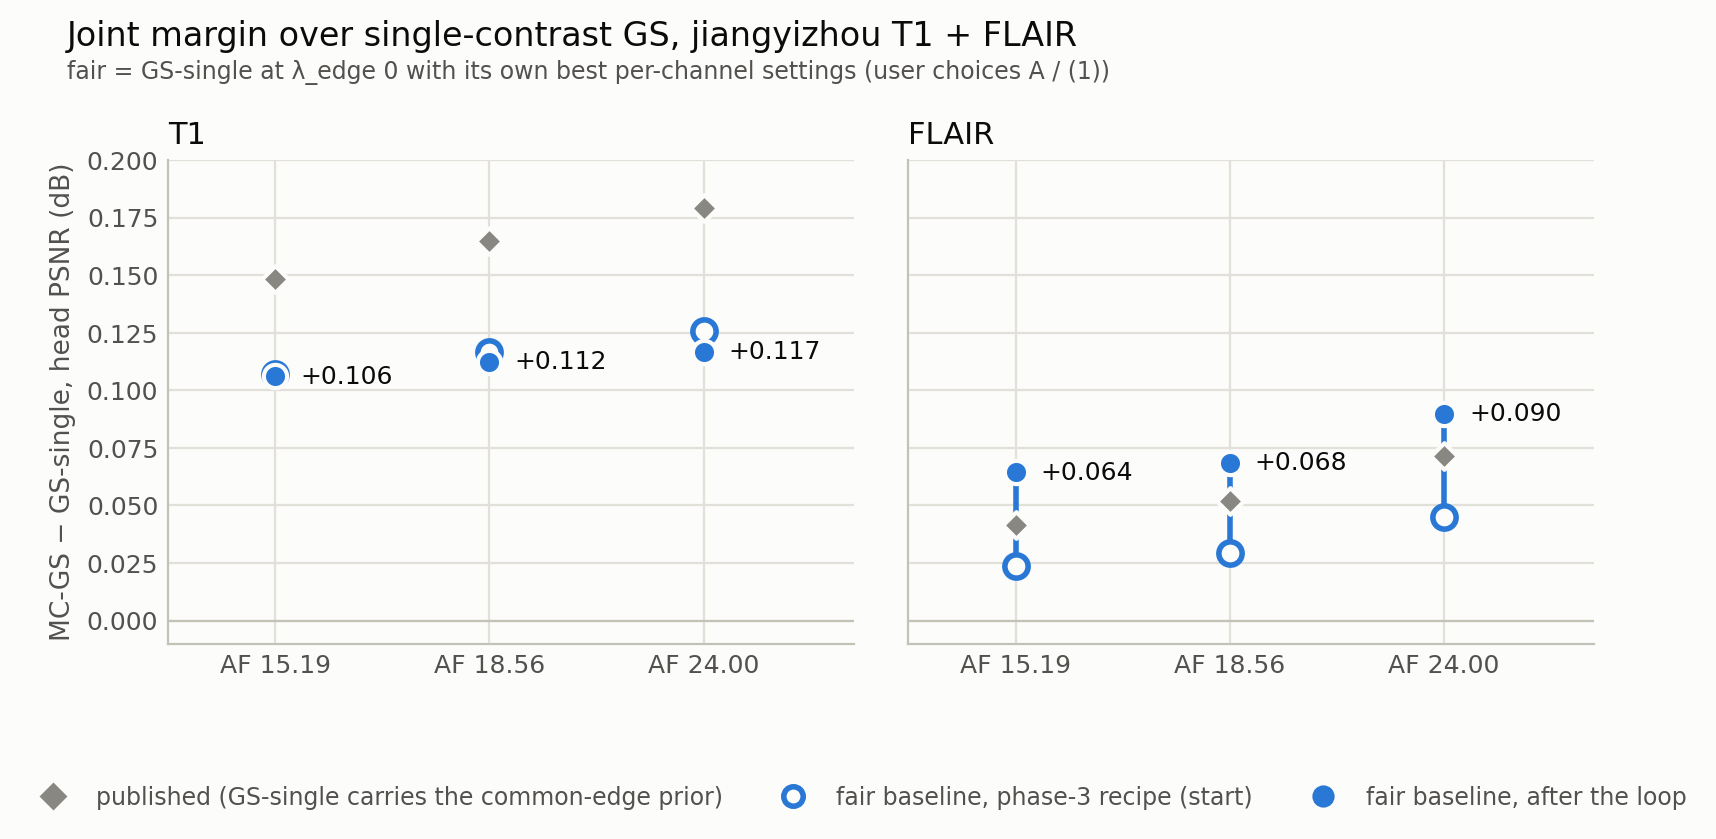
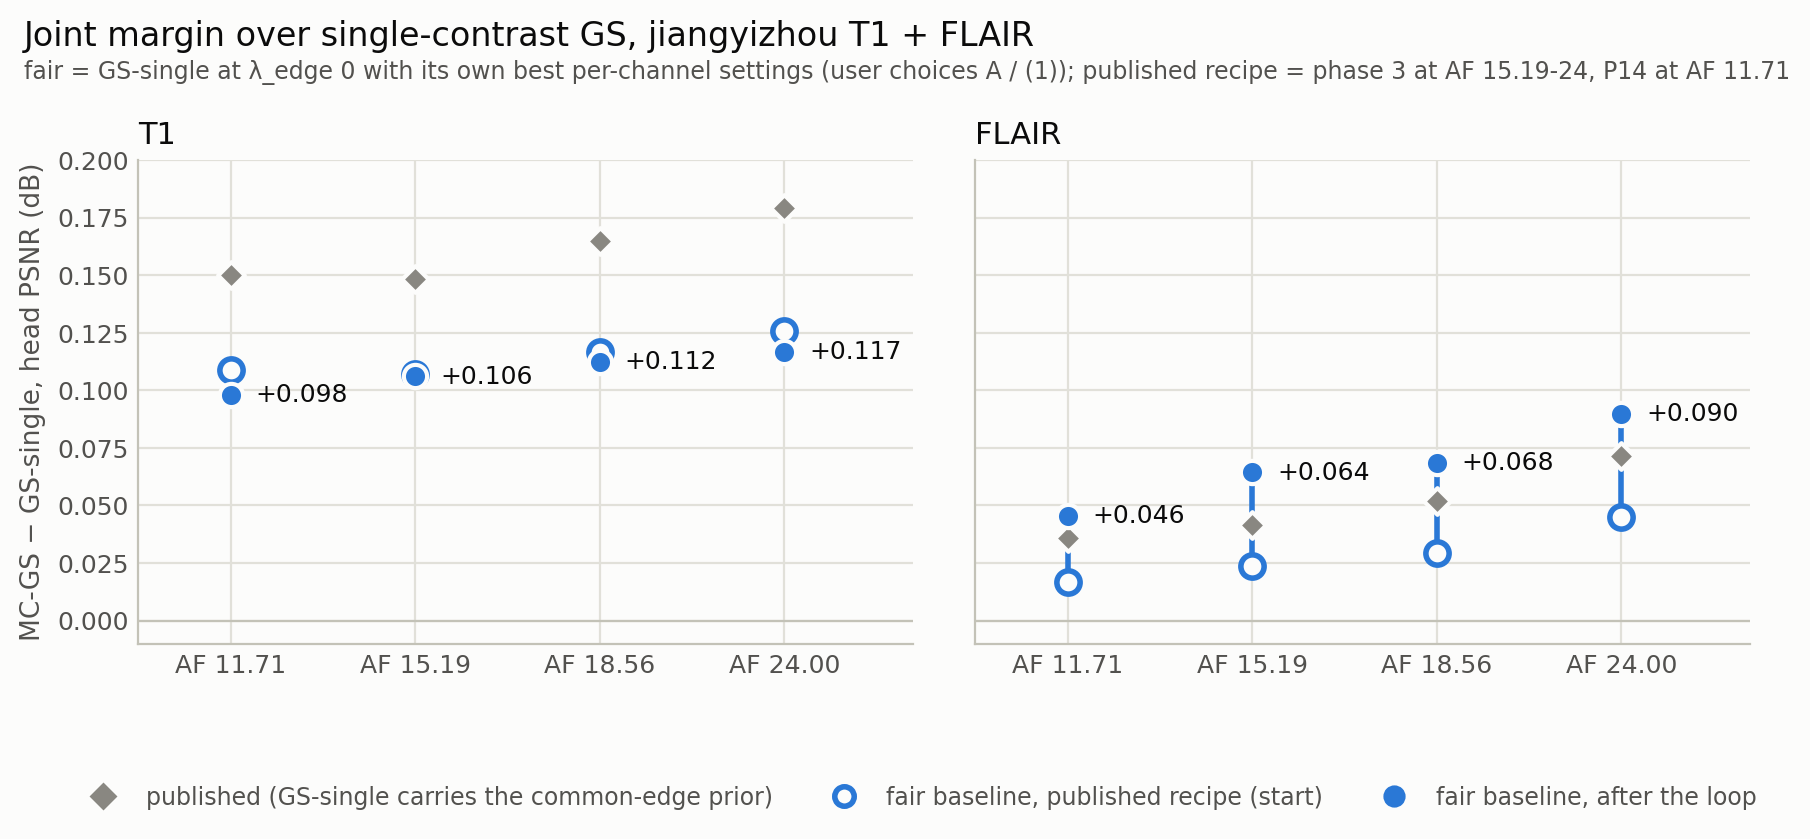
widen loop: AF12 fair start from the P14 recipe (the P14 anchor reproduces the registered AF12 arm to 3e-4 dB); the summary chart now spans AF 11.71 to 24

diff --git a/scripts/fig_widen_summary.py b/scripts/fig_widen_summary.py
@@ -60,7 +60,7 @@ REG = {12: ("p3_e0001_ptv001_full4k", "p3_e0001_ptv001_singleT1_full4k", "p3_e00
        24: ("af24_p3_joint_full4k", "af24_p3_singleT1_full4k", "af24_p3_singleFLAIR_full4k")}
 REG_ROOT = {12: A12, 16: A, 20: A, 24: A}
 # fair start = the published recipe with GS-single at lambda_edge 0 (AF12: the P14 recipe, re-run in this tree)
-START = {12: ((W, "wd_af12_p14_j"), (W, "wd_af12_p14_s_t1_e0"), (W, "wd_af12_p14_s_fl_e0")),
+START = {12: ((W, "wd_af12_p14_j"), (W, "wd_af12_p14_s_t1_e0"), (W, "wd_af12_p14_s_fl_e0b")),
          16: ((H, "hp_n36"), (H, "ca_s_t1_edge0"), (H, "ca_s_fl_edge0")),
          20: ((A, "af20_p3_joint_full4k"), (W, "wd_af20_s_t1_e0"), (W, "wd_af20_s_fl_e0_r")),
          24: ((W, "wd_af24_j_e001_r"), (W, "wd_af24_s_t1_e0_r"), (W, "wd_af24_s_fl_e0_r"))}

diff --git a/autoresearch_widen.md b/autoresearch_widen.md
@@ -48,7 +48,7 @@ GS-single = its best single run of the symmetric sweep (phase TV 0.01, T1 wavele
 
 | AF | MC-GS (head PSNR / SSIM) T1 ; FLAIR | GS-single T1 ; FLAIR | fair margin now | fair margin at start | published |
 |---|---|---|---|---|---|
-| 12 | 37.040 / 0.9530 ; 36.364 / 0.9416 | 36.942 / 0.9516 ; 36.318 / 0.9411 | **+0.098 / +0.046** | (P14 recipe, see below) | +0.150 / +0.036 (P14) |
+| 12 | 37.040 / 0.9530 ; 36.364 / 0.9416 | 36.942 / 0.9516 ; 36.318 / 0.9411 | **+0.098 / +0.046** | +0.109 / +0.017 (P14 recipe) | +0.150 / +0.036 (P14) |
 | 16 | 35.850 / 0.9412 ; 35.009 / 0.9260 | 35.744 / 0.9394 ; 34.945 / 0.9249 | **+0.106 / +0.064** | +0.107 / +0.024 | +0.148 / +0.042 |
 | 20 | 34.975 / 0.9306 ; 34.247 / 0.9135 | 34.863 / 0.9285 ; 34.178 / 0.9124 | **+0.112 / +0.069** | +0.117 / +0.029 | +0.165 / +0.052 |
 | 24 | 33.897 / 0.9148 ; 33.239 / 0.8950 | 33.781 / 0.9122 ; 33.150 / 0.8935 | **+0.117 / +0.089** | +0.126 / +0.045 | +0.179 / +0.071 |
@@ -61,7 +61,10 @@ which read the jiangyizhou AF12 topic). MC-GS first on PSNR / SSIM / NMSE in all
 best non-GS arm +0.878 (CS-SENSE, TV converged) / +0.739 (Joint SENSE); the one recipe edges the AF12 line's own P14
 (37.015 / 36.360). Fair margin across the four AF, T1 / FLAIR: +0.098 / +0.046, +0.106 / +0.064, +0.112 / +0.068,
 +0.117 / +0.090 (full precision) -- it grows monotonically with acceleration on both contrasts. P14 note: P14 used
-`gaussian.rotation_lr 0.008`, the one recipe keeps the config's 0.0003 (not tested in this loop).
+`gaussian.rotation_lr 0.008`, the one recipe keeps the config's 0.0003 (not tested in this loop). The P14 joint re-run in this code tree
+(`wd_af12_p14_j`) reproduces the registered 37.0147 / 36.3597 to +0.0003 / -0.0003 dB; its fair start uses the P14
+singles at lambda_edge 0 (`wd_af12_p14_s_t1_e0`, `wd_af12_p14_s_fl_e0b`; the first FLAIR attempt was stopped after another
+user's job landed on the same card).
 - MC-GS first on head PSNR and SSIM in all six cells; every non-GS arm of the AF topics is >= 0.6 dB behind (unchanged).
 - The margin still grows with AF on both contrasts. Single runs, one seed (floor 0.001 dB from the AF16 topic).
 - Not done: volumes of the winners (re-run with SAVE_VOLUMES=1 for figures), registration in the AF topics, other subjects.
